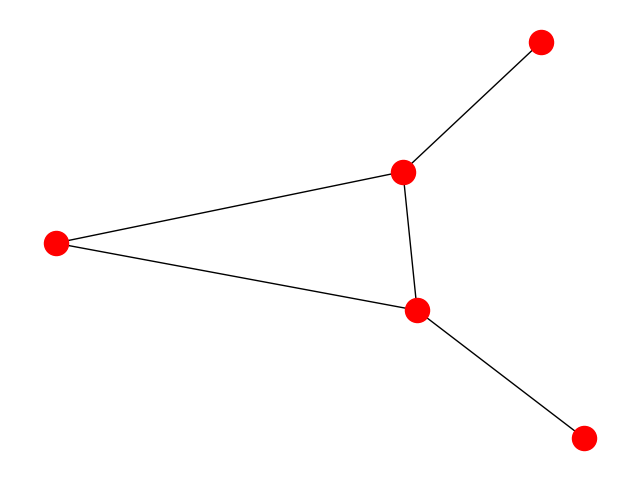
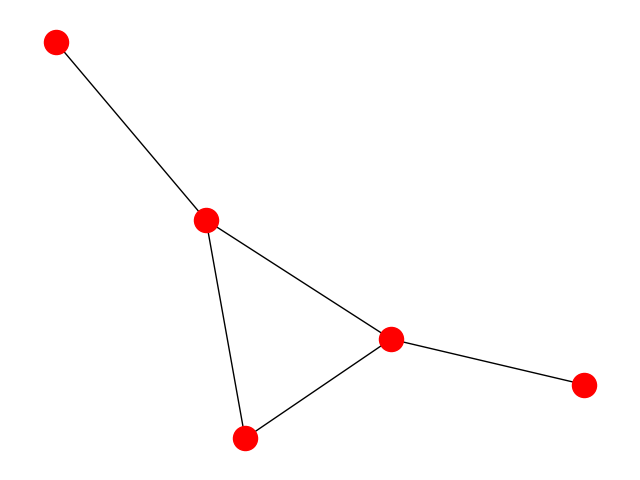
integrated backend

diff --git a/v2/gui.py b/v2/gui.py
@@ -7,7 +7,7 @@
 # WARNING! All changes made in this file will be lost!
 
 from PyQt4 import QtCore, QtGui
-
+from backend import *
 try:
     _fromUtf8 = QtCore.QString.fromUtf8
 except AttributeError:
@@ -23,6 +23,10 @@ except AttributeError:
         return QtGui.QApplication.translate(context, text, disambig)
 
 class Ui_MainWindow(object):
+
+    nodes = []
+    edges = []
+
     def setupUi(self, MainWindow):
         MainWindow.setObjectName(_fromUtf8("MainWindow"))
         MainWindow.resize(933, 600)
@@ -110,12 +114,13 @@ class Ui_MainWindow(object):
         QtCore.QObject.connect(self.kValueSlider, QtCore.SIGNAL(_fromUtf8("valueChanged(int)")), self.kValueHolder.show)
         QtCore.QMetaObject.connectSlotsByName(MainWindow)
         # custom code
-        self.imageHolder.setPixmap(QtGui.QPixmap('plot.png'))
         self.applyButton.clicked.connect(self.applyButtonClicked)
         self.kValueSlider.valueChanged.connect(self.displayChange)
-        self.actionAdd_Node.triggered.connect(self.fileOpener)
-        self.actionAdd_Edge.triggered.connect(self.fileOpener)
+        self.kValueHolder.setText(str(self.kValueSlider.value()))
+        self.actionAdd_Node.triggered.connect(self.nodeOpener)
+        self.actionAdd_Edge.triggered.connect(self.edgeOpener)
         self.actionExit.triggered.connect(self.goOut)
+        self.plotNetwork()
 
     def applyButtonClicked(self):
         print("Apply button pressed ",self.kValueSlider.value())
@@ -125,13 +130,27 @@ class Ui_MainWindow(object):
         print(val)
         self.kValueHolder.setText(str(val))
 
+    def nodeOpener(self):
+        nodeFile = self.fileOpener()
+        self.nodes = nodeReader(nodeFile,self.nodes)
+        self.plotNetwork()
+
+    def edgeOpener(self):
+        edgeFile = self.fileOpener()
+        self.edges = edgeReader(edgeFile,self.edges)
+        self.plotNetwork()
+
     def fileOpener(self):
         dlg = QtGui.QFileDialog()
         dlg.setFileMode(QtGui.QFileDialog.AnyFile)
         dlg.setFilter("Text files (*.txt)")
         dlg.exec_()
         fileNames = dlg.selectedFiles()
-        print(fileNames)
+        return (fileNames[0])
+
+    def plotNetwork(self):
+        generateNetwork(self.nodes,self.edges)
+        self.imageHolder.setPixmap(QtGui.QPixmap('plot.png'))
 
     def goOut(self):
         sys.exit()

diff --git a/v2/backend.py b/v2/backend.py
@@ -1,0 +1,73 @@
+import threading
+import networkx as nx
+import matplotlib.pyplot as plt
+
+class fileReaderThread (threading.Thread):
+   def __init__(self, threadID, name , function, fileName):
+      threading.Thread.__init__(self)
+      self.threadID = threadID
+      self.name = name
+      self.function = function
+      self.fileName = fileName
+   def run(self):
+      # print ("Starting " + self.name)
+      # self.function(self.fileName)
+      # print ("Exiting " + self.name)
+      pass
+
+# nodes = []
+# edges = []
+
+def nodeReader(fileName , nodes):
+   try:
+      with open(fileName,"r") as file:
+         for line in file:
+            try:
+               nodes.append(int(line))
+            except ValueError as v:
+               print ("file found an invalid node : ", v)
+               continue
+      return nodes
+   except FileNotFoundError as e :
+      print("file was not found : ", e)
+
+def edgeReader(fileName,edges):
+   try:
+      with open(fileName, "r") as file:
+         for line in file:
+            try:
+               v1,v2 = line.split(',')
+               edges.append((int(v1),int(v2)))
+            except ValueError as v:
+               print("file has an invalid edge : ",v)
+               continue
+      return edges
+   except FileNotFoundError as e :
+      print("file was not found : ", e)
+
+def generateNetwork(nodes,edges):
+   G = nx.Graph()
+   G.add_nodes_from(nodes)
+   G.add_edges_from(edges)
+   nx.draw(G)
+   plt.savefig("plot.png")
+
+# print(nodes, edges)
+# Create new threads
+
+# thread1 = fileReaderThread(1, "nodeInputThread", nodeReader, "nodeList.txt")
+# thread2 = fileReaderThread(2, "edgeInputThread", edgeReader, "edgeList.txt")
+
+# Start new Threads
+# thread1.start()
+# thread2.start()
+# thread1.join()
+# thread2.join()
+
+# print(nodes, edges)
+# G = nx.Graph()
+# G.add_nodes_from(nodes)
+# G.add_edges_from(edges)
+# nx.draw(G)
+# plt.savefig("plot.png")
+# plt.show()
